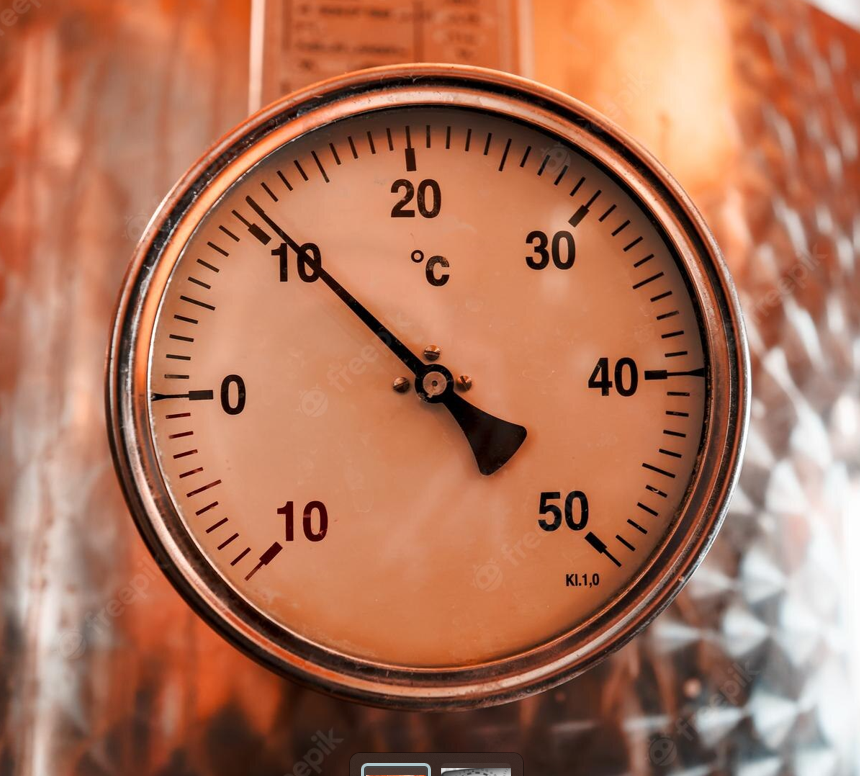
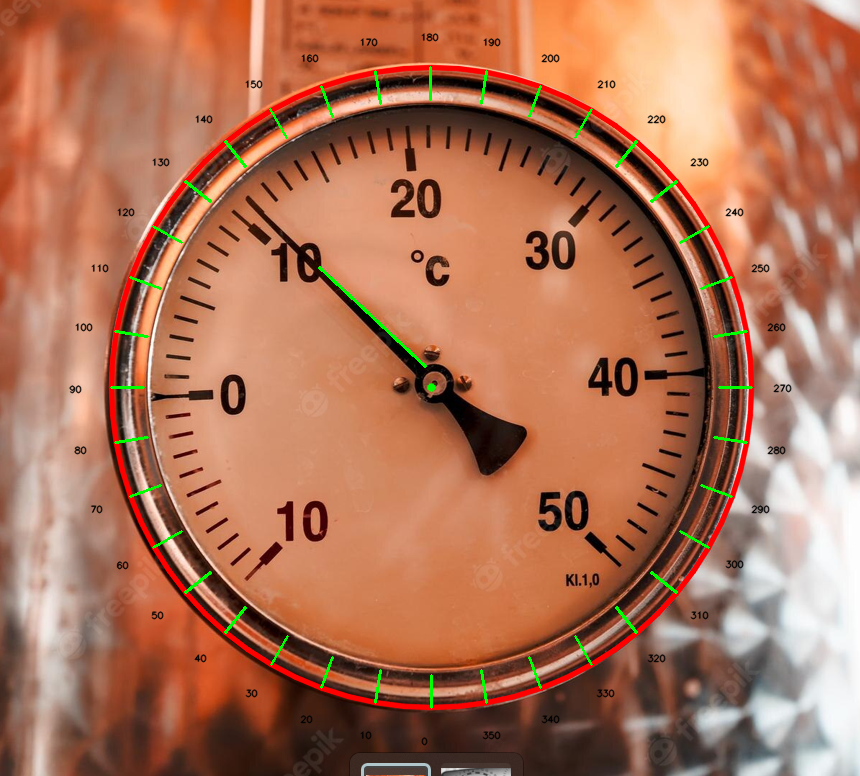
Update

diff --git a/templates/index.html b/templates/index.html
@@ -115,7 +115,7 @@
 
 <body>
 <div class='header'>
-    DEMO NHẬN DIỆN YOLOV6
+    NHẬN DIỆN NHIỆT ĐỘ
 </div>
 <div class='content'>
 

diff --git a/detect.py b/detect.py
@@ -8,6 +8,12 @@ import cv2 as cv
 import numpy as np
 import filter
 
+# The Specifications of clock
+min_angle = 20
+max_angle = 344
+min_value = 0
+max_value = 150
+
 def determine_avg_circles(circles, b):
     avg_x=0
     avg_y=0
@@ -29,13 +35,13 @@ def calibrate_gauge(path):
     clock = cv.imread(path)
     height, width = clock.shape[:2]
 
-    img = filter.implement_filter(clock)
-    cv.imshow('img', img)
-    cv.waitKey(0)
-    cv.destroyAllWindows()
+    img = filter.implement_filter(clock, 5)
+    # cv.imshow('img', img)
+    # cv.waitKey(0)
+    # cv.destroyAllWindows()
     
     try:
-        circles = cv.HoughCircles(img,cv.HOUGH_GRADIENT, 1, 20, param1=100, param2=50, minRadius=int(height*0.3), maxRadius=int(height*0.5))
+        circles = cv.HoughCircles(img,cv.HOUGH_GRADIENT, 1, 20, param1=100, param2=50, minRadius=int(height*0.35), maxRadius=int(height*0.5))
     except:
         return
     
@@ -56,48 +62,48 @@ def calibrate_gauge(path):
     for i in range(0,interval):
         for j in range(0,2):
             if (j%2==0):
-                p1[i][j] = x + 0.9 * r * np.cos(separation * i * 3.14 / 180) #point for lines
+                p1[i][j] = x + 0.9 * r * np.cos(separation * i * np.pi / 180) #point for lines
             else:
-                p1[i][j] = y + 0.9 * r * np.sin(separation * i * 3.14 / 180)
+                p1[i][j] = y + 0.9 * r * np.sin(separation * i * np.pi / 180)
     text_offset_x = 10
     text_offset_y = 5
     for i in range(0, interval):
         for j in range(0, 2):
             if (j % 2 == 0):
-                p2[i][j] = x + r * np.cos(separation * i * 3.14 / 180)
-                p_text[i][j] = x - text_offset_x + 1.1 * r * np.cos((separation) * (i+9) * 3.14 / 180) #point for text labels, i+9 rotates the labels by 90 degrees
+                p2[i][j] = x + r * np.cos(separation * i * np.pi / 180)
+                p_text[i][j] = x - text_offset_x + 1.1 * r * np.cos((separation) * (i+9) * np.pi / 180) #point for text labels, i+9 rotates the labels by 90 degrees
             else:
-                p2[i][j] = y + r * np.sin(separation * i * 3.14 / 180)
-                p_text[i][j] = y + text_offset_y + 1.1* r * np.sin((separation) * (i+9) * 3.14 / 180)  # point for text labels, i+9 rotates the labels by 90 degrees
+                p2[i][j] = y + r * np.sin(separation * i * np.pi / 180)
+                p_text[i][j] = y + text_offset_y + 1.1 * r * np.sin((separation) * (i+9) * np.pi / 180)  # point for text labels, i+9 rotates the labels by 90 degrees
 
     #add the lines and labels to the image
     for i in range(0,interval):
         cv.line(clock, (int(p1[i][0]), int(p1[i][1])), (int(p2[i][0]), int(p2[i][1])),(0, 255, 0), 2)
         cv.putText(clock, '%s' %(int(i*separation)), (int(p_text[i][0]), int(p_text[i][1])), cv.FONT_HERSHEY_SIMPLEX, 0.3,(0,0,0),1,cv.LINE_AA)
-    
-    cv.imwrite('detected_circle.png', clock)
 
-    
     # cv.imshow('detected circles', clock)
     # cv.waitKey(0)
     # cv.destroyAllWindows()
 
-    return x, y, r
+    return x, y, r, clock
 
-def get_current_value(path, min_angle, max_angle, min_value, max_value, x, y, r):
+def get_current_value(path, clock, min_angle, max_angle, min_value, max_value, x, y, r):
     img = cv.imread(path)
 
-    dst2 = filter.implement_filter(img)
+    dst = filter.implement_filter(img, 5)
+    # cv.imshow('dst', dst)
+    # cv.waitKey(0)
+    # cv.destroyAllWindows()
     
     try:
-        lines = cv.HoughLinesP(image=dst2, rho=3, theta=np.pi / 180, threshold=100, minLineLength=10, maxLineGap=0)
+        lines = cv.HoughLinesP(image=dst, rho=1, theta=np.pi / 180, threshold=105, minLineLength=10, maxLineGap=0)
     except:
         return
     
     final_line_list = []
 
     diff1LowerBound = 0.0 # diff1LowerBound and diff1UpperBound determine how close the line should be from the center
-    diff1UpperBound = 0.2
+    diff1UpperBound = 0.3
     diff2LowerBound = 0.5 # diff2LowerBound and diff2UpperBound determine how close the other point of the line should be to the outside of the gauge
     diff2UpperBound = 1.0
     
@@ -143,13 +149,18 @@ def get_current_value(path, min_angle, max_angle, min_value, max_value, x, y, r)
         res.append(value)
 
     for x1, y1, x2, y2 in final_line_list:
-        cv.line(img, (x1, y1), (x2, y2),(0, 255, 0), 2)
+        cv.line(clock, (x1, y1), (x2, y2),(0, 255, 0), 2)
     
-    # cv.imwrite('detected_line.png', img)
+    cv.imwrite('detected.png', clock)
     
-    return np.array(res).mean(), img
+    return np.array(res).mean(), clock
 
 if __name__ == '__main__':
-    x, y, r = calibrate_gauge('../clock2.png')
+    x, y, r, circle = calibrate_gauge('../clock2.png')
+    res, img = get_current_value('../clock2.png', circle, min_angle, max_angle, min_value, max_value, x, y, r)
+    print(res)
+    # cv.imshow('img', img)
+    # cv.waitKey(0)
+    # cv.destroyAllWindows()
 
 

diff --git a/my_api.py b/my_api.py
@@ -16,10 +16,10 @@ app.config['CORS_HEADERS'] = 'Content-Type'
 app.config['UPLOAD_FOLDER'] = 'static'
 
 # The Specifications of clock
-min_angle = 45
-max_angle = 310
-min_value = -34
-max_value = 54
+min_angle = 20
+max_angle = 344
+min_value = 0
+max_value = 150
 
 @app.route('/', methods=['POST', 'GET'])
 @cross_origin(origin='*')
@@ -33,9 +33,9 @@ def detect_temperature():
                 print("Save = ", path_to_save)
                 image.save(path_to_save)
 
-                x, y, r = detect.calibrate_gauge(path_to_save)
+                x, y, r, clock = detect.calibrate_gauge(path_to_save)
 
-                res, img = detect.get_current_value(path_to_save, min_angle, max_angle, min_value, max_value, x, y, r)
+                res, img = detect.get_current_value(path_to_save, clock, min_angle, max_angle, min_value, max_value, x, y, r)
 
                 cv.imwrite(path_to_save, img)
                 return render_template('index.html', user_image=image.filename, rand=str(random()), msg='Success', res=res)

diff --git a/filter.py b/filter.py
@@ -1,13 +1,13 @@
 import cv2
 import numpy as np
 
-def implement_filter(image):
+def implement_filter(image, n):
     image = cv2.cvtColor(image, cv2.COLOR_BGR2GRAY)
     kernel = np.array([[0, 1, 0],
                        [1, -4, 1],
                        [0, 1, 0]])
 
-    image = cv2.GaussianBlur(image, (5, 5), 0)
+    image = cv2.GaussianBlur(image, (n, n), 0)
     laplacian = cv2.filter2D(image, -1, kernel)
     _, laplacian = cv2.threshold(laplacian, 7, 255, cv2.THRESH_BINARY)
 
